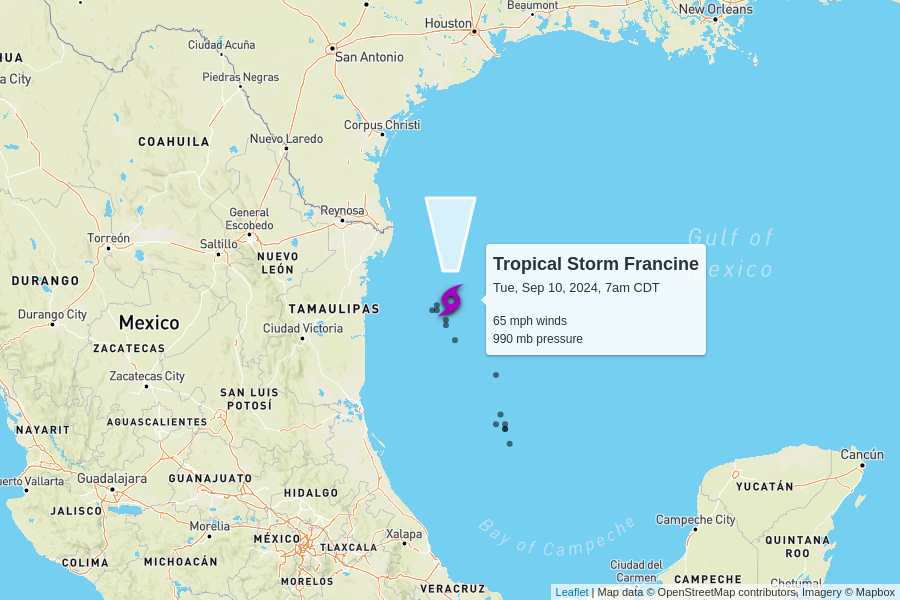
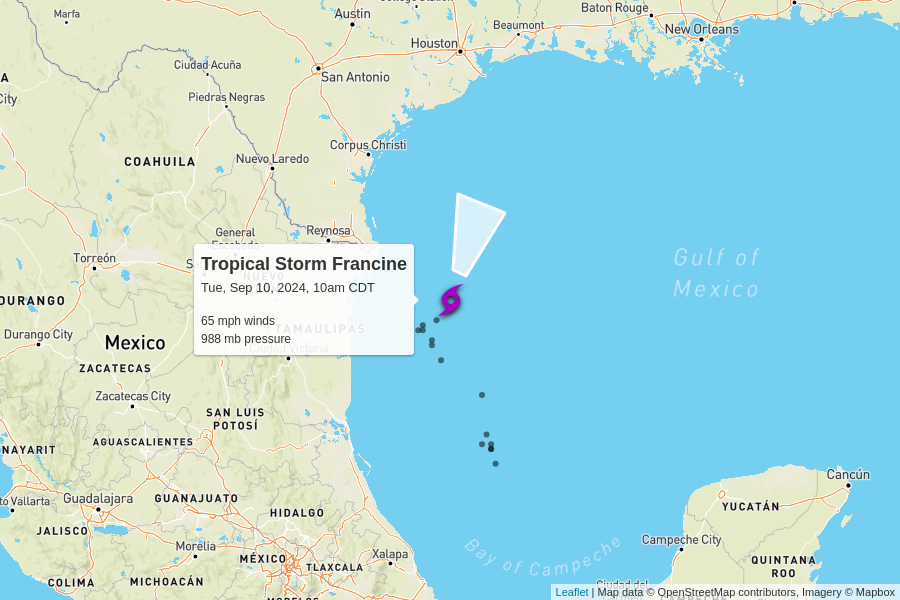
automatic update

diff --git a/docs/index.html b/docs/index.html
@@ -102,7 +102,7 @@
         <td colspan="6" class="storm category-0" >
           <h2>
             Tropical Storm Francine
-            <p class="updated">last updated <span data-time>2024-09-10T12:00:00.000Z</span></p>
+            <p class="updated">last updated <span data-time>2024-09-10T15:00:00.000Z</span></p>
           </h2>
         </td>
       </tr>
@@ -118,11 +118,11 @@
       <tr>
         <td class="spacer"></td>
         <td>65 mph<br>0 mph since last update</td>
-        <td>990 mb<br>-2 mb since last update</td>
+        <td>988 mb<br>-2 mb since last update</td>
         <td>
-          5 mph to the north
+          8 mph to the north-northeast
           <br/>
-          <span style="display: inline-block; font-size: 1.5em; transform: rotate(360deg);">↑</span>
+          <span style="display: inline-block; font-size: 1.5em; transform: rotate(20deg);">↑</span>
         </td>
         <td><a href="https://raw.githubusercontent.com/mgwalker/atlantic-hurricanes/main/data/csv/AL062024.csv">AL062024.csv</a></td>
         <td><a href="https://www.nhc.noaa.gov/archive/2024/FRANCINE.shtml?">NHC advisories</a></td>
